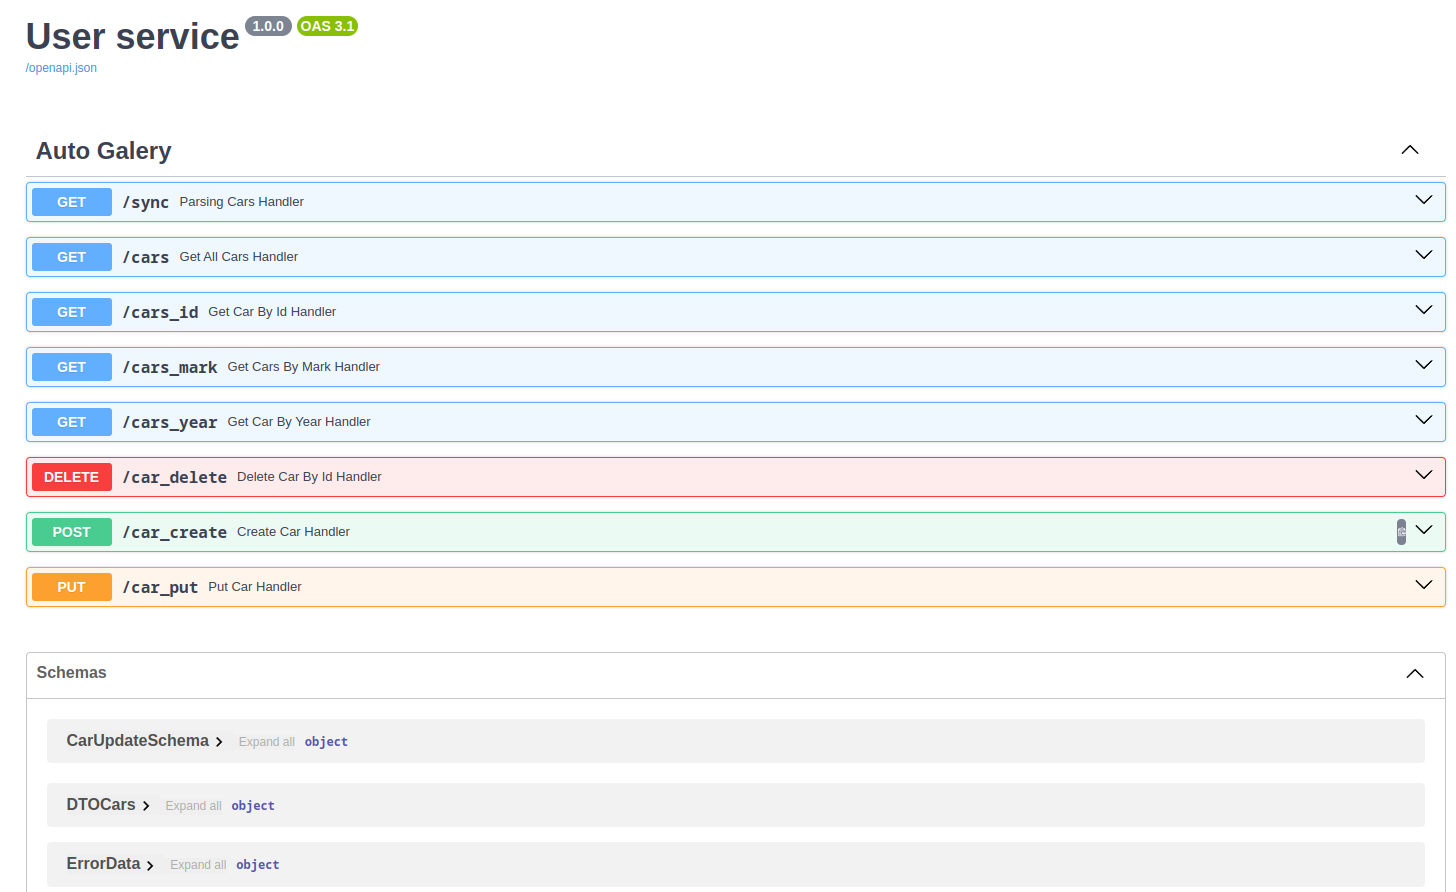
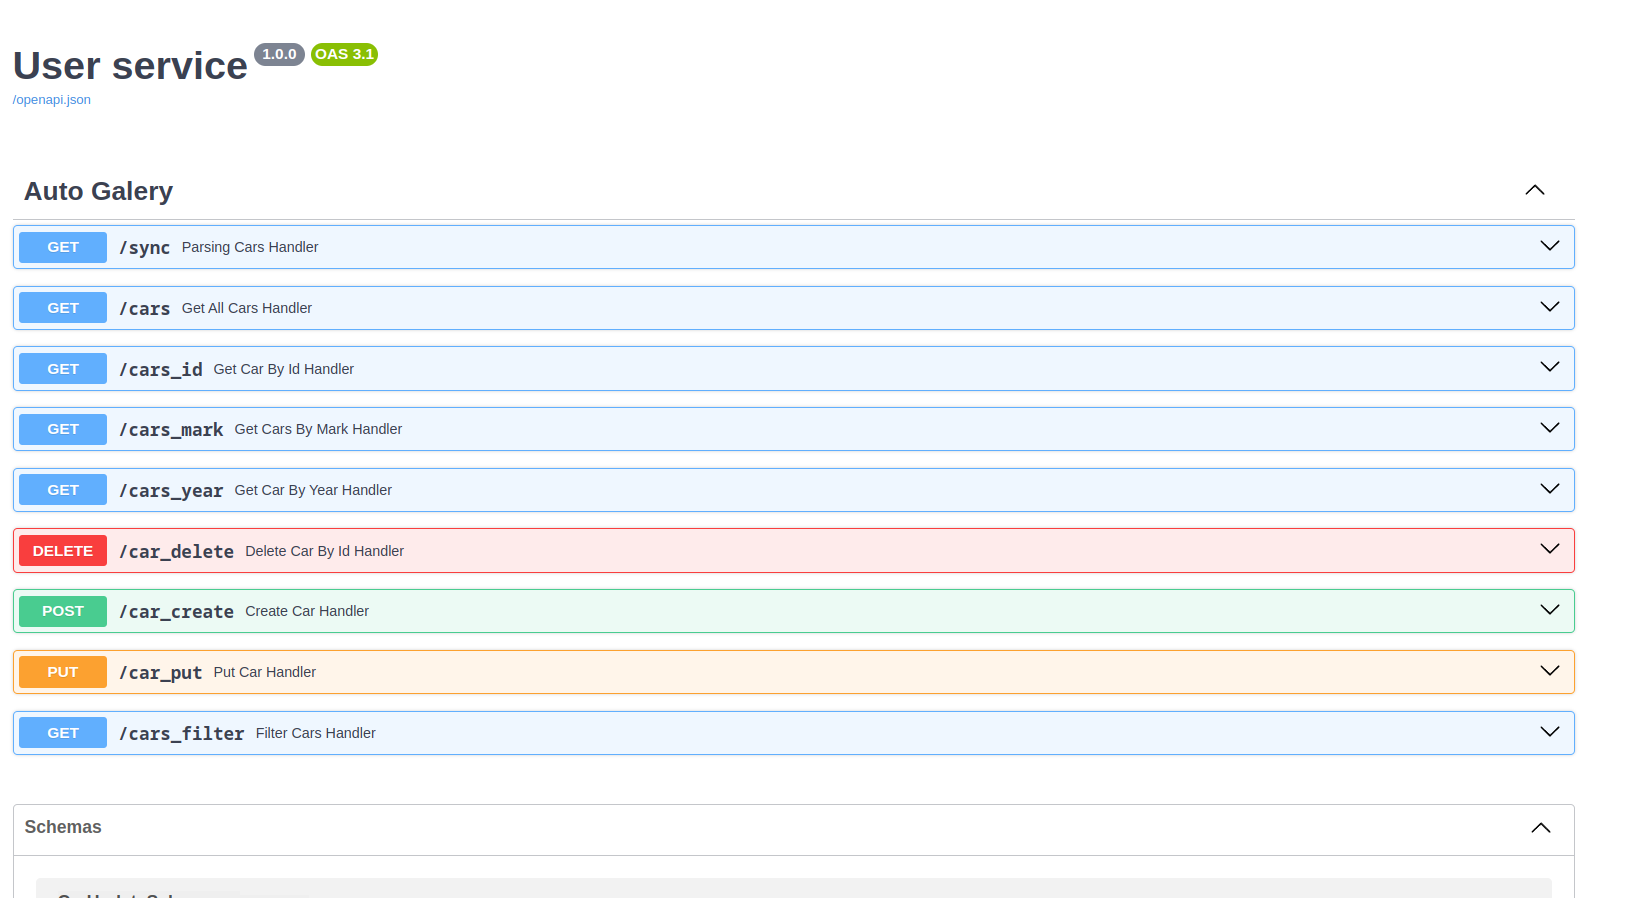
fix: /car_create, added numeric fields

diff --git a/src/application/cars/dto/car.py b/src/application/cars/dto/car.py
@@ -1,26 +1,41 @@
-from dataclasses import (
-    dataclass,
-    field,
-)
 from typing import (
     Dict,
     Optional,
 )
 
+from pydantic import (
+    BaseModel,
+    Field,
+)
+from src.infrastructure.parser.utils import (
+    parse_mileage,
+    parse_price,
+)
 
-@dataclass(frozen=True)
-class DTOCars:
-    mark: Optional[str] = field(default=None)
-    price: Optional[str] = field(default=None)
-    mileage: Optional[str] = field(default=None)
-    model: Optional[str] = field(default=None)
-    year_created: Optional[int] = field(default=None)
-    engine_type: Optional[str] = field(default=None)
-    gear_box: Optional[str] = field(default=None)
-    drive_type: Optional[str] = field(default=None)
-    engine_capacity: Optional[str] = field(default=None)
-    location: Optional[str] = field(default=None)
-    url_image: Optional[str] = field(default=None)
+
+class DTOCars(BaseModel):
+    price: str = Field(
+        default="0 $",
+        pattern=r"^\d+(?:\s\d+)*\s*\$$",
+        description="Ціна автомобіля. Приклад: '3 099 $'. Значення за замовчуванням: '0$'",
+    )
+    mileage: str = Field(
+        default="0 тис.км.",
+        pattern=r"^\d+(?:\s\d+)*\s*(?:тис\.?\s*км\.?)$",
+        description="Пробіг автомобіля. Приклад: '480 тис.км.'. Значення за умовчанням: '0 тис.км.'",
+    )
+    mark: Optional[str] = Field(default=None, description="Марка автомобіля")
+    model: Optional[str] = Field(default=None, description="Модель автомобіля")
+    year_created: Optional[int] = Field(default=None, description="Рік випуску")
+    engine_type: Optional[str] = Field(default=None, description="Тип двигуна")
+    engine_capacity: Optional[str] = Field(default=None, description="Об'єм двигуна")
+    gear_box: Optional[str] = Field(default=None, description="Коробка передач")
+    drive_type: Optional[str] = Field(default=None, description="Тип приводу")
+    location: Optional[str] = Field(default=None, description="Локація")
+    url_image: Optional[str] = Field(
+        default=None,
+        description="Посилання на зображення",
+    )
 
     def to_dict(self) -> Dict:
         return {
@@ -34,4 +49,7 @@ class DTOCars:
             "drive_type": self.drive_type,
             "location": self.location,
             "url_image": self.url_image,
+            "price_numeric": parse_price(self.price),
+            "mileage_numeric": parse_mileage(self.mileage),
+            "gear_box": self.gear_box,
         }

diff --git a/src/presentation/api/controllers/galery.py b/src/presentation/api/controllers/galery.py
@@ -228,7 +228,7 @@ async def create_car_handler(
     mediator: Mediator = container.resolve(Mediator)
 
     try:
-        is_car_deleted = await mediator.handle_command(
+        is_car_created = await mediator.handle_command(
             CreatingCarCommand(car_schema=car_schema),
         )
     except BaseAppException as exception:
@@ -237,7 +237,7 @@ async def create_car_handler(
             detail={"error": exception.message},
         )
 
-    if is_car_deleted:
+    if is_car_created:
         return SuccessResponse(result="Car Succesfully Added")
 
 
@@ -259,7 +259,7 @@ async def put_car_handler(
     mediator: Mediator = container.resolve(Mediator)
 
     try:
-        is_car_deleted = await mediator.handle_command(
+        is_car_putted = await mediator.handle_command(
             PuttingCarCommand(
                 car_id=car_id,
                 car_data=car_data,
@@ -271,7 +271,7 @@ async def put_car_handler(
             detail={"error": exception.message},
         )
 
-    if is_car_deleted:
+    if is_car_putted:
         return SuccessResponse(result="Car Succesfully Changed")
 
 

diff --git a/README.md b/README.md
@@ -12,6 +12,7 @@ Test Project for parsing OLX and manipulate received data
 * `Delete /car_delete` - deleting car by ID
 * `Post /car_create` - creating car
 * `Put /car_put` - change data car
+* `Get /cars_filter` - filtering cars by: year, price, mileage.
 
 ### Installation and Running
 
